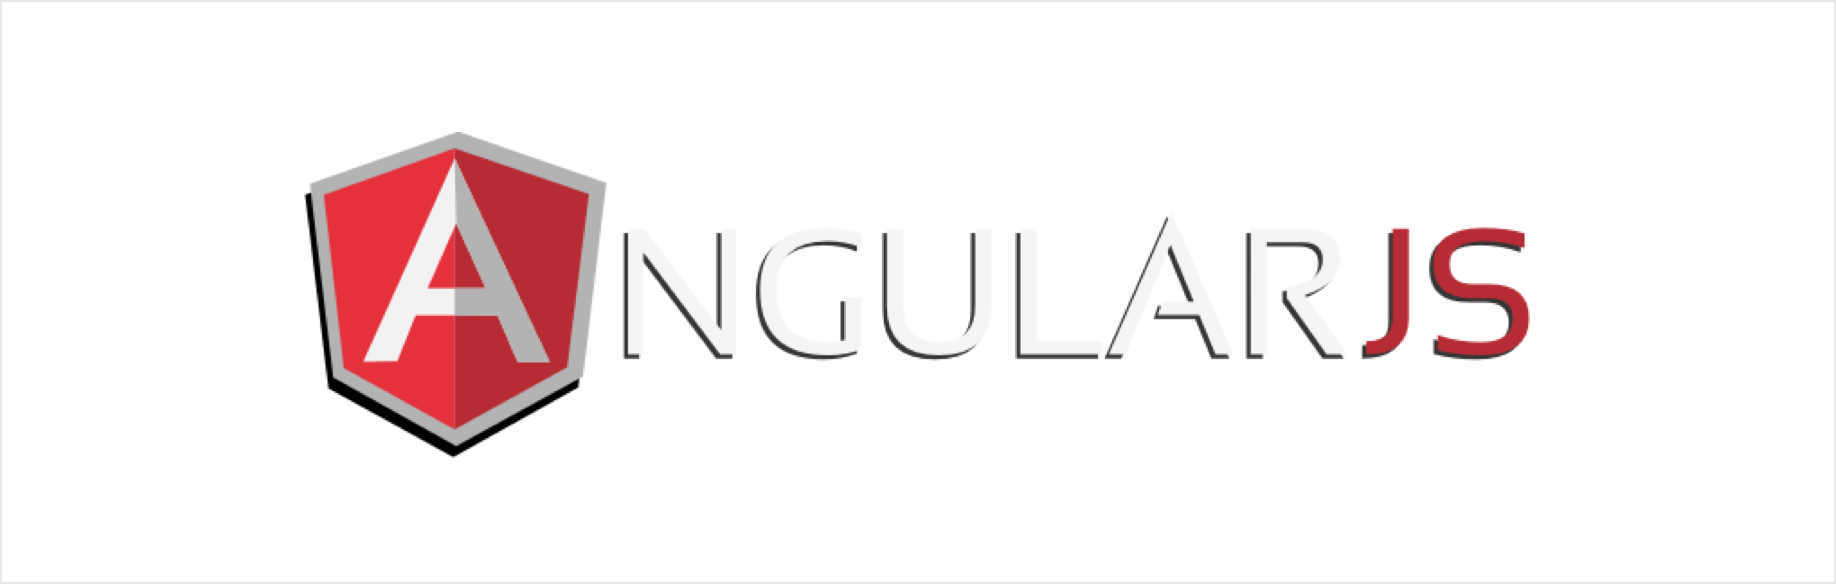
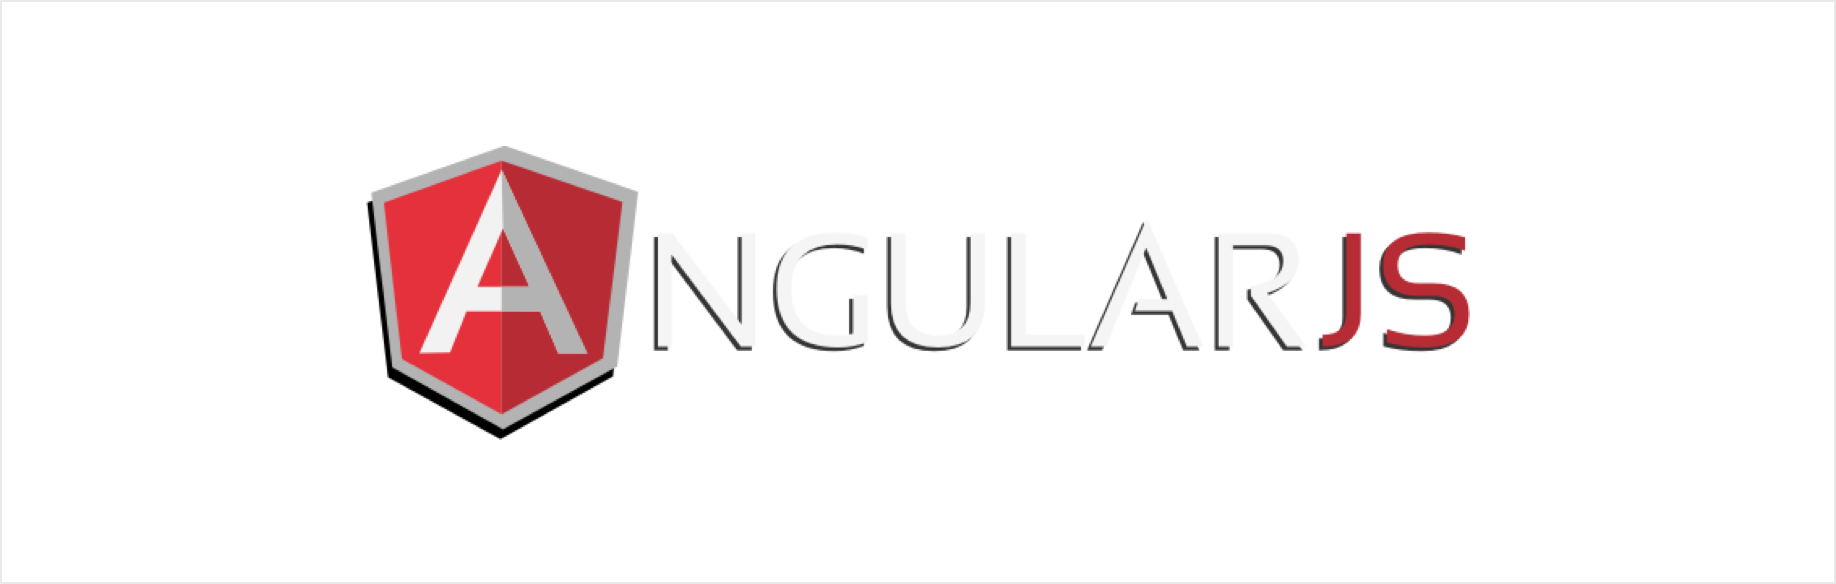
Added Refresh Tokens Landing Page and improved Angular images

Changed region(s): [[0.1552, 0.2158, 0.8382, 0.7705]]

diff --git a/landings/index.md b/landings/index.md
@@ -1,9 +1,9 @@
 ---
-public: false
+sitemap: false
 
 pages:
   single-sign-on:
-    title: Single Sign On
+    title: Single Sign On 
     description: Say goodbye to multiple credentials.
     banner:
       image: "/media/landings/banner/hero-image-single-sign-on.png"
@@ -20,7 +20,7 @@ pages:
       - last-mile-integration
       - compliance-with-standards
   how-to-implement-single-sign-on:
-    title: How to Implement Single Sign On
+    title: How to Implement Single Sign On 
     description: Implement Single Sign On to allow users to login to multiple systems with just one set of credentials.
     banner:
       image: "/media/landings/banner/hero-image-single-sign-on.png"
@@ -37,7 +37,7 @@ pages:
       - sso-last-mile-integration-depth
       - compliance-with-standards
   multi-factor-authentication:
-    title: Multifactor Authentication
+    title: Multifactor Authentication 
     description: Increased security for your mission-critical systems.
     banner:
       image: "/media/landings/banner/bg-hero-mfa.png"
@@ -52,7 +52,7 @@ pages:
       - custom-mfa
       - compliance-with-standards
   get-started-with-mfa:
-    title: Multifactor Authentication (MFA)
+    title: Multifactor Authentication (MFA) 
     description: Learn everything about Multifactor Authentication (MFA) and how you can start using it right now in your application.
     banner:
       image: "/media/landings/banner/bg-hero-mfa.png"
@@ -116,4 +116,20 @@ pages:
       - angular-auth0-how-it-works
       - angular-lock
       - angular-2-support
+  refresh-tokens:
+    title: Understanding Refresh Tokens
+    description: Learn about refresh tokens and how they fit in the authentication process.
+    banner:
+      image: "/media/landings/banner/refresh-tokens-hero.png"
+      socialmediaimage: "/media/landings/banner/twitter-card-refresh-tokens.png"
+    meta:
+      title: Understanding Refresh Tokens
+      description: Learn about refresh tokens and how they fit in the authentication process.
+    modules:
+      - rtokens-what-is
+      - rtokens-how-they-work
+      - rtokens-using-them
+      - rtokens-security-considerations
+      - rtokens-in-auth0
+
 ---

diff --git a/landings/modules/rtokens-using-them.md b/landings/modules/rtokens-using-them.md
@@ -1,0 +1,40 @@
+---
+public: false
+budicon: 546
+color: "#EB5424"
+title: "Using Refresh Tokens"
+---
+
+This is a simple example of how **Refresh Tokens** can be obtained and used. Using a simple **CURL command** as the client.
+
+The OAuth2 token endpoint could be (**/oauth/token**), which handles issuing of all types of grants (access and refresh tokens).
+
+Assuming there is a user '_test_' with password '_test_' and a client '_testclient_' with a client secret '_secret_', a sample request of a new **Access Token/Refresh Token** pair could be the following:
+
+```
+$ curl -X POST -H 'Authorization: Basic dGVzdGNsaWVudDpzZWNyZXQ=' -d 'grant_type=password&username=test&password=test' localhost:3000/oauth/token
+
+{
+    "token_type":"bearer",
+    "access_token":"eyJ0eXAiOiJKV1QiLCJhbGciOiJIUzI1NiJ9.eyJ1c2VyIjoiVlx1MDAxNcKbwoNUwoonbFPCu8KhwrYiLCJpYXQiOjE0NDQyNjI1NDMsImV4cCI6MTQ0NDI2MjU2M30.MldruS1PvZaRZIJR4legQaauQ3_DYKxxP2rFnD37Ip4",
+    "expires_in":20,
+    "refresh_token":"fdb8fdbecf1d03ce5e6125c067733c0d51de209c"
+}
+```
+
+The authorization header contains the client id and secret encoded as BASE64 (_testclient:secret_).
+
+When the **Access Token** expires, you can use the **Refresh Token** to get a new **Access Token** by using the token endpoint as shown below:
+
+```
+curl -X POST -H 'Authorization: Basic dGVzdGNsaWVudDpzZWNyZXQ=' -d 'refresh_token=fdb8fdbecf1d03ce5e6125c067733c0d51de209c&grant_type=refresh_token' localhost:3000/oauth/token
+
+{
+    "token_type":"bearer",
+    "access_token":"eyJ0eXAiOiJKV1QiLCJhbGciOiJIUzI1NiJ9.eyJ1c2VyIjoiVlx1MDAxNcKbwoNUwoonbFPCu8KhwrYiLCJpYXQiOjE0NDQyNjI4NjYsImV4cCI6MTQ0NDI2Mjg4Nn0.Dww7TC-d0teDAgsmKHw7bhF2THNichsE6rVJq9xu_2s",
+    "expires_in":20,
+    "refresh_token":"7fd15938c823cf58e78019bea2af142f9449696a"
+}
+```
+
+> Notice in the above command, that the _grant_type_ is the **Refresh Token** and not the user/password pair. As the result of this command a new **Access Token** is returned.

diff --git a/landings/modules/rtokens-how-they-work.md b/landings/modules/rtokens-how-they-work.md
@@ -1,0 +1,13 @@
+---
+public: false
+
+image: "/media/landings/rtokens-how-they-work/rtokens-how-they-work.png"
+imageAlt: "Refresh tokens are used to renew Access Tokens"
+imagePosition: "center"
+imageExtraClass: "code"
+budicon: 329
+color: "#68BF95"
+title: "How Refresh Tokens work"
+---
+Whenever an **Access Token** is required to access a protected resource, a client may use a **Refresh Token** to get a new **Access Token** issued by the _Authentication Server_. Although **Access Tokens** can be renewed at any time using **Refresh Tokens**, they should be renewed when old ones have expired, or when getting access to a new resource for the first time.
+**Refresh Tokens** can also expire but are rather long-lived. They are usually subject to strict storage requirements to ensure they are not leaked. Nevertheless, they can be blacklisted by the authorization server.

diff --git a/landings/modules/rtokens-security-considerations.md b/landings/modules/rtokens-security-considerations.md
@@ -1,0 +1,10 @@
+---
+public: false
+budicon: 640
+image: "/media/landings/rtokens-security-considerations/rtokens-security-considerations.png"
+imageAlt: "It is important to keep Refresh Tokens secure"
+imagePosition: "center"
+color: "#4E92DF"
+title: "Security Considerations"
+---
+**Refresh Tokens** are long-lived. This means when a client gets one from a server, this token must be stored securely to keep it from being used by potential attackers. If a **Refresh Token** is leaked, it may be used to obtain new **Access Tokens** (and access protected resources) until it is either blacklisted or it expires (which may take a long time). **Refresh Tokens** must be issued to a single authenticated client to prevent use of leaked tokens by other parties. **Access Tokens** must also be kept secret, but due to its shorter life, security considerations are less critical.

diff --git a/landings/modules/rtokens-what-is.md b/landings/modules/rtokens-what-is.md
@@ -1,0 +1,10 @@
+---
+public: false
+image: "/media/landings/rtokens-what-is/rtokens-what-is.png"
+imageAlt: "A Refresh Token is a special kind of token that can be used to obtain a renewed access token."
+imagePosition: "center"
+budicon: 789
+color: "#2F383D"
+title: "What is a Refresh Token?"
+---
+A **Refresh Token** is a special kind of token that can be used to obtain a renewed access token —that allows accessing a protected resource— at any time. You can request new access tokens until the refresh token expires. Refresh tokens must be stored securely by an application because they essentially allow a user to remain authenticated forever.

diff --git a/landings/modules/rtokens-in-auth0.md b/landings/modules/rtokens-in-auth0.md
@@ -1,0 +1,11 @@
+---
+public: false
+
+image: "/media/landings/rtokens-in-auth0/rtokens-in-auth0.png"
+imageAlt: "Auth0 does the hard part of managing the authentication process for you"
+imagePosition: "center"
+budicon: 608
+color: "#222228"
+title: "How Refresh tokens are used in Auth0"
+---
+Auth0 does the hard part of managing the authentication process for you. **Refresh tokens** are not an exception. Once you have setup your app with us, follow the docs [here](https://auth0.com/docs/refresh-token) to learn how to get a Refresh Token.

diff --git a/landings/modules/angular-lock.md b/landings/modules/angular-lock.md
@@ -4,6 +4,7 @@ public: false
 image: "/media/landings/sl-what-is/what-is-social-login.png"
 imageAlt: "Our Lock widget is beautifully designed"
 imagePosition: "center"
+imageExtraClass: "code"
 budicon: 285
 color: "#EACA2C"
 title: "Lock - The Login Box Done Right"

diff --git a/landings/modules/angular-2-support.md b/landings/modules/angular-2-support.md
@@ -3,7 +3,6 @@ public: false
 image: "/media/landings/angular-2-support/angular-2-support.png"
 imageAlt: "Angular 2.0 support"
 imagePosition: "center"
-imageExtraClass: "code"
 budicon: 500
 color: "#0B74D5"
 title: "Support for Angular 2"
